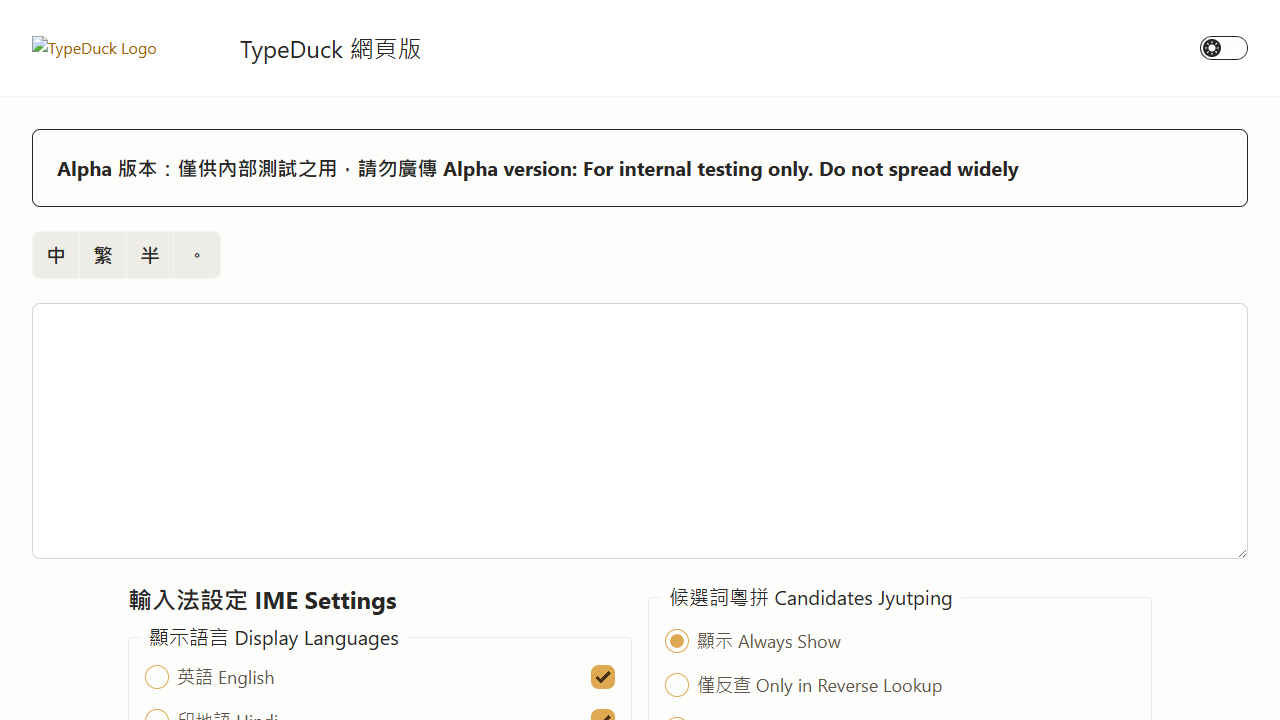
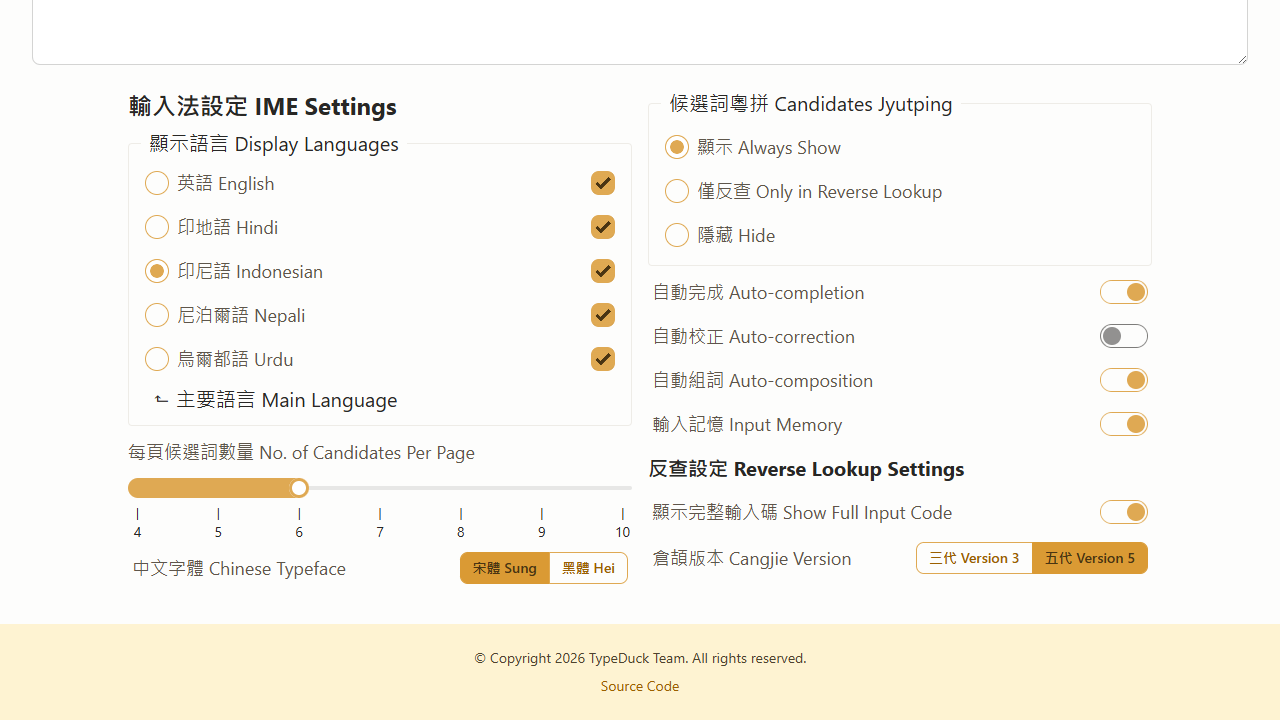
docs(01-02): scroll settings fixture screenshots
- recapture default and Indonesian-main settings screenshots at lower settings scroll
- document scroll position and visible lower controls in fixture metadata

diff --git a/.planning/product/TYPEDUCK-WEB-ALPHA-FIXTURES-2026-06-23.md b/.planning/product/TYPEDUCK-WEB-ALPHA-FIXTURES-2026-06-23.md
@@ -29,10 +29,10 @@ Supporting assets:
 - `web-alpha-fixtures/2026-06-23/settings-order.json`
 - `web-alpha-fixtures/2026-06-23/candidate-list-sample.json`
 - `web-alpha-fixtures/2026-06-23/dictionary-detail-sample.json`
-- `web-alpha-fixtures/2026-06-23/screenshots/settings-desktop-1280x720.png` - captured
+- `web-alpha-fixtures/2026-06-23/screenshots/settings-desktop-1280x720.png` - captured after scrolling down to expose lower settings
 - `web-alpha-fixtures/2026-06-23/screenshots/candidate-desktop-1280x720.png` - captured
 - `web-alpha-fixtures/2026-06-23/screenshots/dictionary-detail-desktop-1280x720.png` - partial/blocked, no file created because the dictionary panel did not appear under controlled Playwright hover/touch attempts
-- `web-alpha-fixtures/2026-06-23/screenshots/settings-multilingual-indonesian-main-desktop-1280x720.png` - captured with all Display Languages enabled and Indonesian selected as main
+- `web-alpha-fixtures/2026-06-23/screenshots/settings-multilingual-indonesian-main-desktop-1280x720.png` - captured with all Display Languages enabled, Indonesian selected as main, and the page scrolled down to expose lower settings
 - `web-alpha-fixtures/2026-06-23/screenshots/candidate-multilingual-indonesian-main-desktop-1280x720.png` - captured with all Display Languages enabled and Indonesian selected as main
 - `web-alpha-fixtures/2026-06-23/screenshots/dictionary-detail-multilingual-indonesian-main-desktop-1280x720.png` - captured after scrolling down and physically moving the mouse over the third candidate cell for 呢
 
@@ -144,10 +144,10 @@ Captured status for this run:
 
 | Screenshot | Status | Path / Limitation |
 |------------|--------|-------------------|
-| Settings | captured | `web-alpha-fixtures/2026-06-23/screenshots/settings-desktop-1280x720.png` |
+| Settings | captured, scrolled | `web-alpha-fixtures/2026-06-23/screenshots/settings-desktop-1280x720.png` at scrollY 494, showing Candidates Jyutping, toggles, Reverse Lookup Settings, Show Full Input Code, and Cangjie Version |
 | Candidate list | captured | `web-alpha-fixtures/2026-06-23/screenshots/candidate-desktop-1280x720.png` |
 | Dictionary detail | partial/blocked baseline | No baseline screenshot file created; the first automation did not move across a concrete candidate cell. |
-| Settings, multilingual Indonesian main | captured | `web-alpha-fixtures/2026-06-23/screenshots/settings-multilingual-indonesian-main-desktop-1280x720.png` |
+| Settings, multilingual Indonesian main | captured, scrolled | `web-alpha-fixtures/2026-06-23/screenshots/settings-multilingual-indonesian-main-desktop-1280x720.png` at scrollY 494, showing lower settings with all Display Languages enabled and Indonesian as main |
 | Candidate list, multilingual Indonesian main | captured | `web-alpha-fixtures/2026-06-23/screenshots/candidate-multilingual-indonesian-main-desktop-1280x720.png` |
 | Dictionary detail, multilingual Indonesian main | captured | `web-alpha-fixtures/2026-06-23/screenshots/dictionary-detail-multilingual-indonesian-main-desktop-1280x720.png` |
 

diff --git a/.planning/phases/01-identity-and-web-parity-contract/01-02-SUMMARY.md b/.planning/phases/01-identity-and-web-parity-contract/01-02-SUMMARY.md
@@ -86,9 +86,9 @@ status: complete
 - `.planning/product/web-alpha-fixtures/2026-06-23/settings-order.json` - Settings labels, order, defaults, options, and Display Languages behavior.
 - `.planning/product/web-alpha-fixtures/2026-06-23/candidate-list-sample.json` - Candidate presentation fields and runtime `nei` sample.
 - `.planning/product/web-alpha-fixtures/2026-06-23/dictionary-detail-sample.json` - Dictionary panel field contract and partial screenshot status.
-- `.planning/product/web-alpha-fixtures/2026-06-23/screenshots/settings-desktop-1280x720.png` - Captured settings screenshot.
+- `.planning/product/web-alpha-fixtures/2026-06-23/screenshots/settings-desktop-1280x720.png` - Captured scrolled settings screenshot showing lower controls.
 - `.planning/product/web-alpha-fixtures/2026-06-23/screenshots/candidate-desktop-1280x720.png` - Captured candidate-list screenshot.
-- `.planning/product/web-alpha-fixtures/2026-06-23/screenshots/settings-multilingual-indonesian-main-desktop-1280x720.png` - Captured settings screenshot with all display languages enabled and Indonesian as main.
+- `.planning/product/web-alpha-fixtures/2026-06-23/screenshots/settings-multilingual-indonesian-main-desktop-1280x720.png` - Captured scrolled settings screenshot with all display languages enabled and Indonesian as main.
 - `.planning/product/web-alpha-fixtures/2026-06-23/screenshots/candidate-multilingual-indonesian-main-desktop-1280x720.png` - Captured candidate-list screenshot with multilingual definitions.
 - `.planning/product/web-alpha-fixtures/2026-06-23/screenshots/dictionary-detail-multilingual-indonesian-main-desktop-1280x720.png` - Captured dictionary-detail screenshot after scrolling down and moving over the third candidate cell for 呢.
 